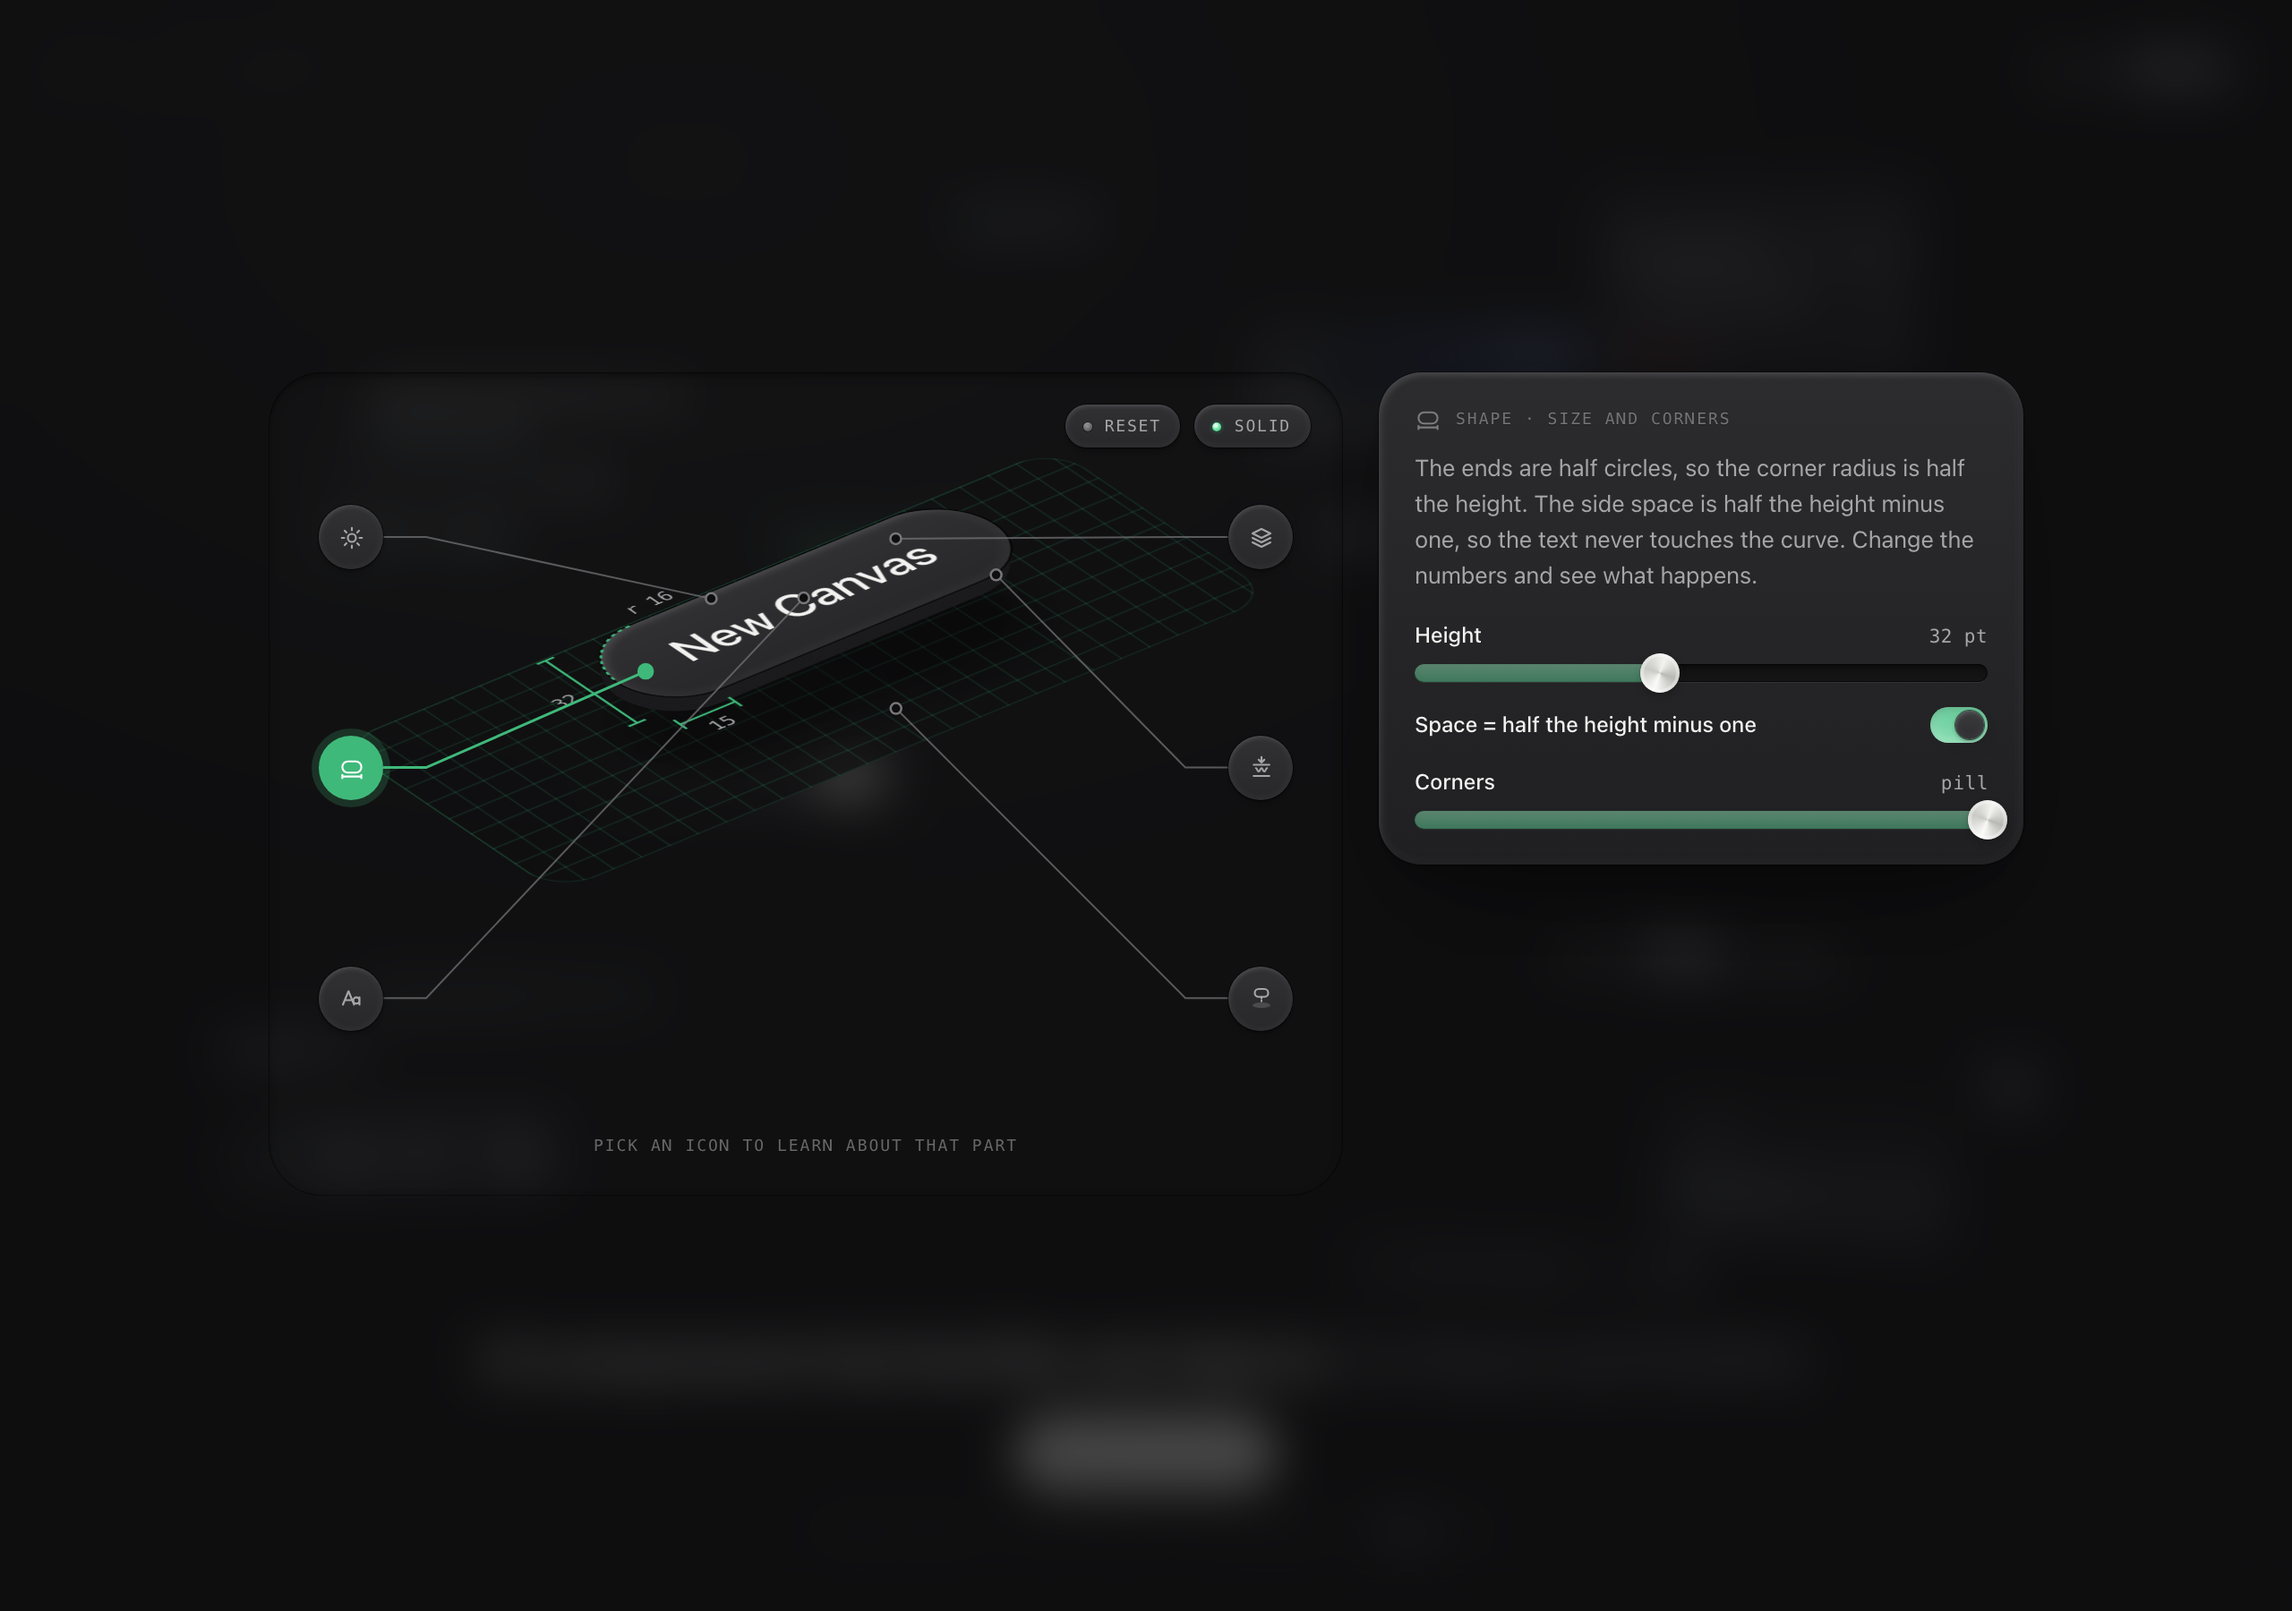
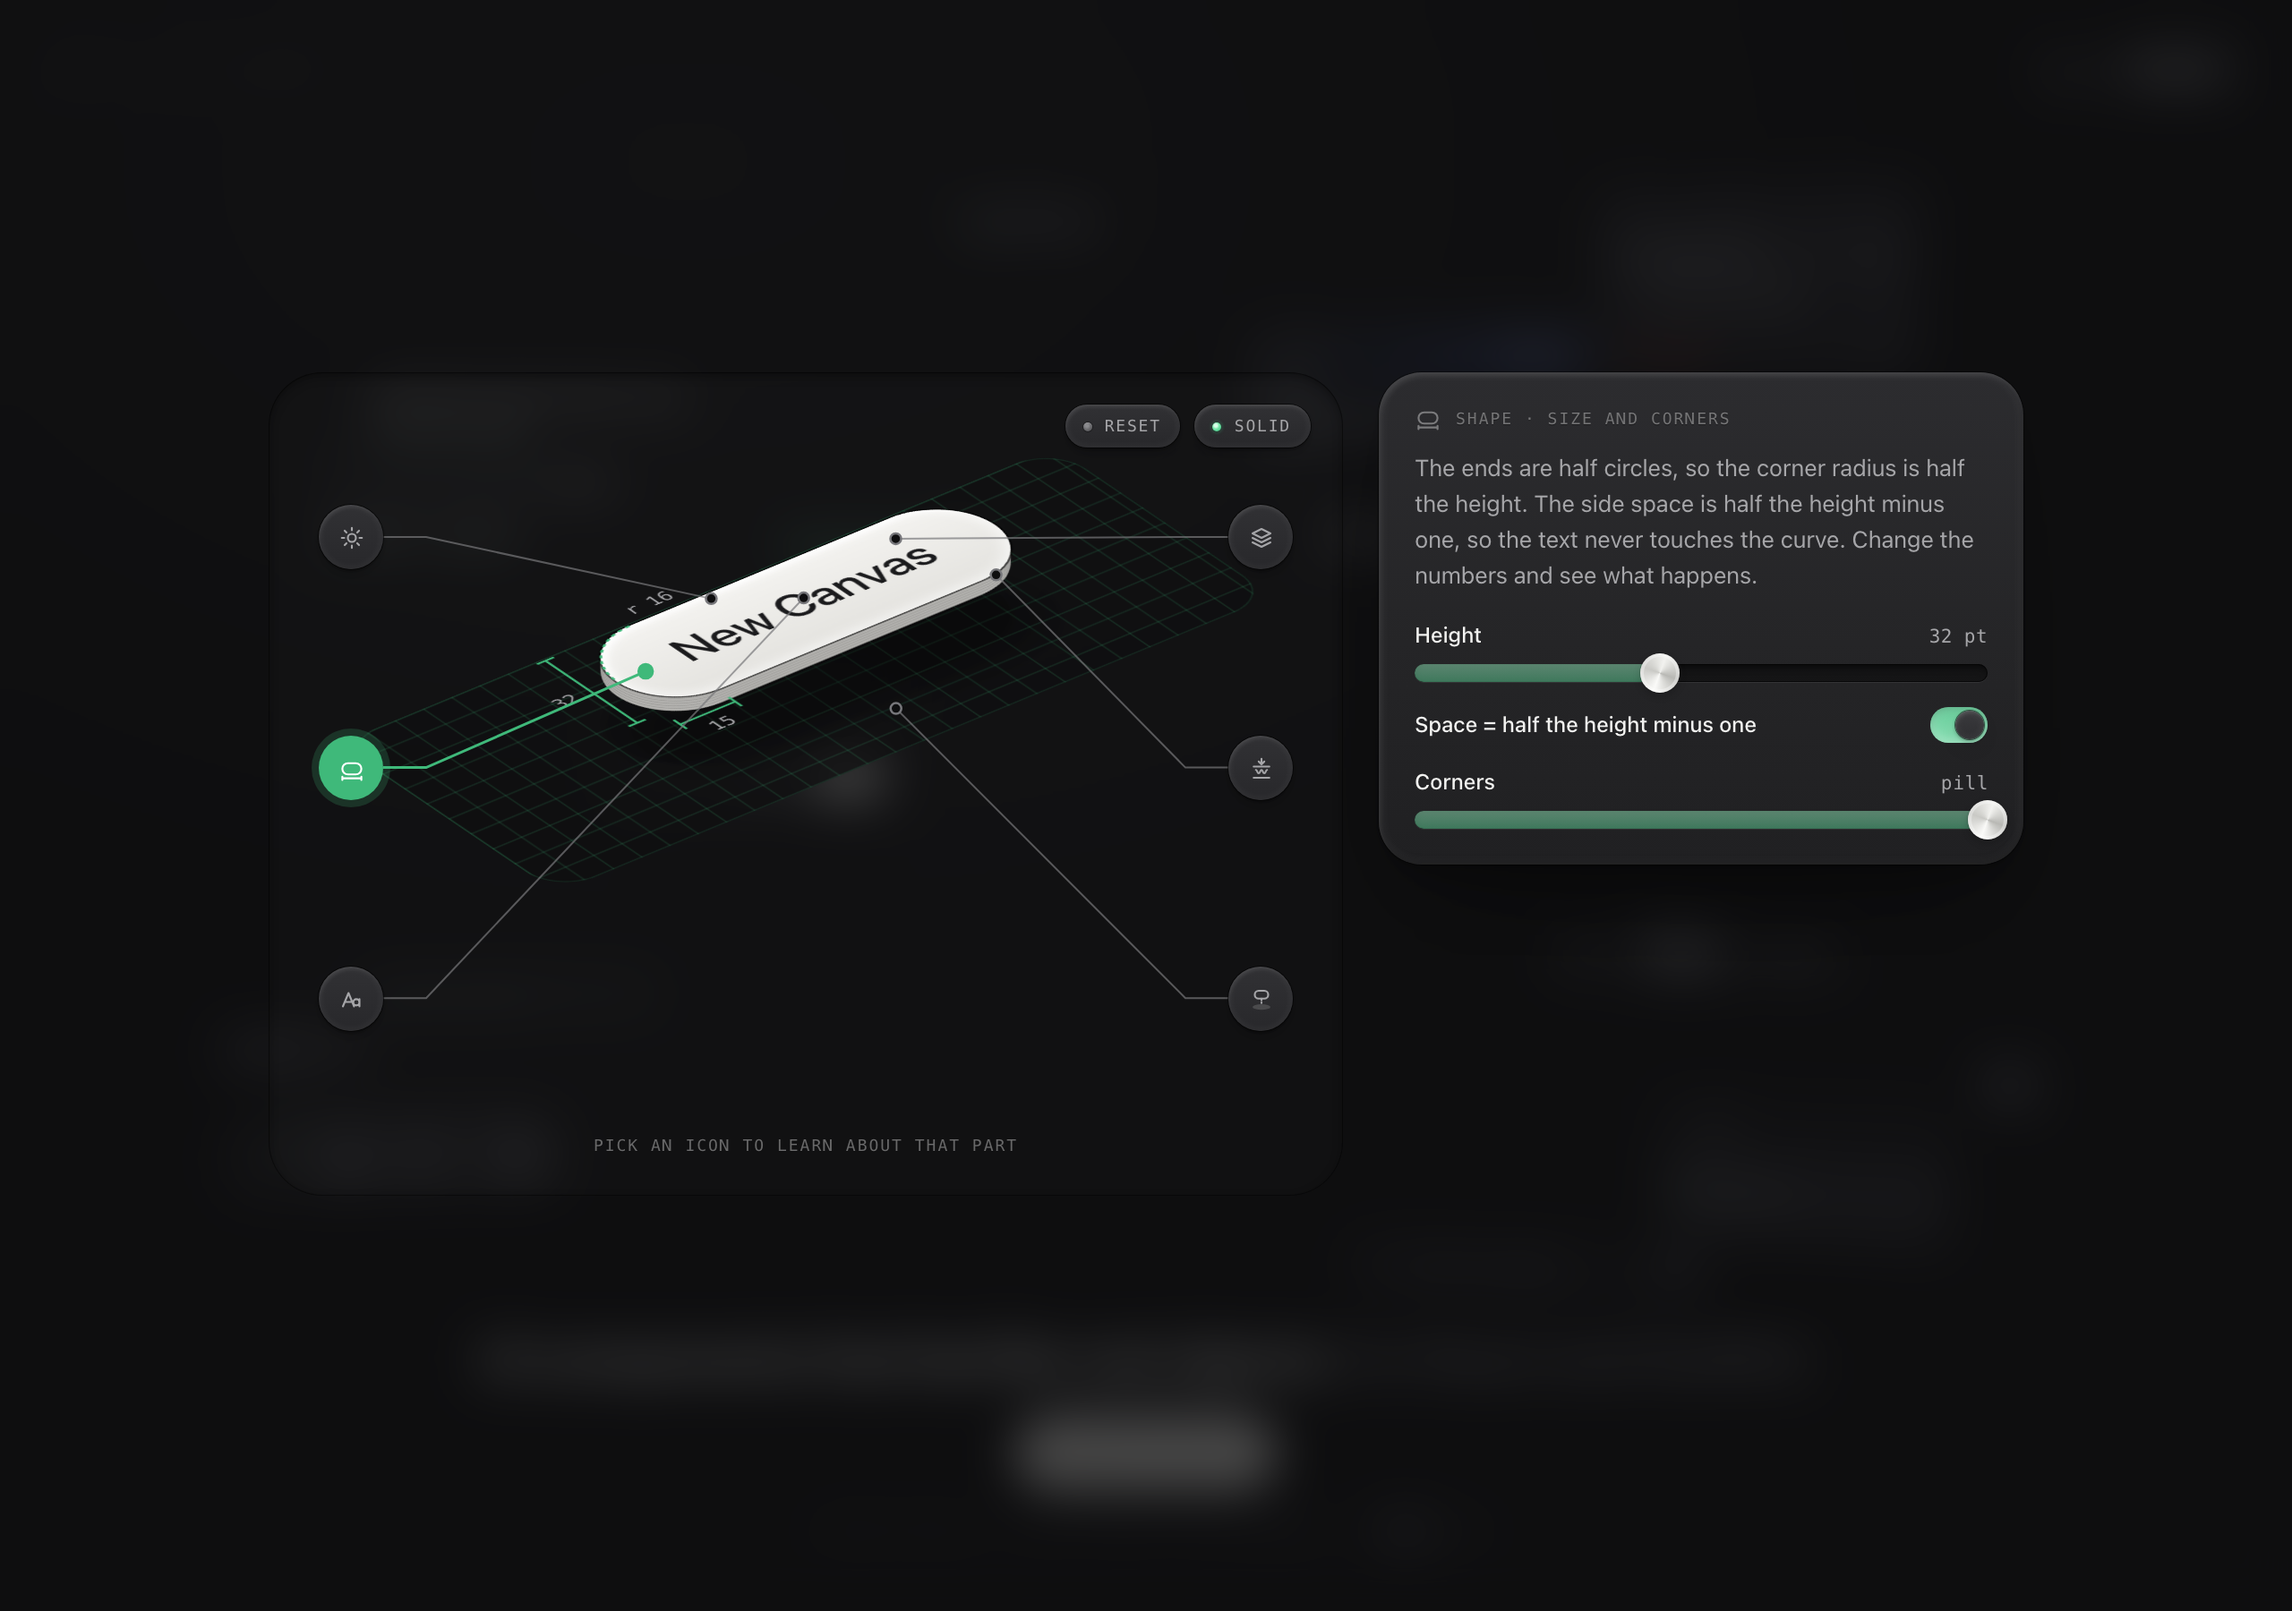
feat(docs): the x-ray composes around the flying object
The card and callouts stayed hidden until the object landed, then
appeared at once, so the x-ray looked broken. Flown in, it now composes
while the object is in the air: the bench and the card surface, the
object lands on a set stage and hands over to the model through the end
of its flight, then the callouts pop in one by one and their leader
lines draw out. The flight is back to 1.1s open and 0.9s close.

New Canvas opens its x-ray as the primary button it is, so it lands on a
model of itself. The button x-ray's primary and destructive caps take
their ink from the cap's token (it flips per colorway) and shade their
wall from the face, so Graphite's light primary no longer hides its
label.

Changed region(s): [[0.25, 0.3111, 0.4375, 0.4667]]

diff --git a/apps/docs/src/ui/floating.tsx b/apps/docs/src/ui/floating.tsx
@@ -141,12 +141,14 @@ export interface XrayOpen { kind: XrayKind; from: string }
  *           2 fly     it flies to the model's place in the card, growing to the model's
  *                     size and tilting as it goes, so it lands at the x-ray's angle with
  *                     its face on the model's face; the card fades in around it
- *           3 land    the object hands over to the model
+ *           3 land    the object hands over to the model through the end of its flight
+ * Meanwhile the card composes around it (kds.css, .xr-overlay.is-flown): the bench and the
+ * card surface while it flies, and the callouts and their leader lines follow once it lands.
  *   close   the same backwards: the model lifts out of the card, turns flat and flies home
  * The browser's own morph is one straight line with no tilt, so the travelling box and
  * the tilt are keyed here. */
-const OPEN_MS = 1500;
-const CLOSE_MS = 1300;
+const OPEN_MS = 1100;
+const CLOSE_MS = 900;
 /** The x-ray's angle (.xr-iso): a flat face turned and laid back. */
 const ISO = 'rotateX(58deg) rotateZ(-38deg)';
 const FLAT = 'rotateX(0deg) rotateZ(0deg)';
@@ -174,12 +176,16 @@ function choreograph(name: string, dir: 'open' | 'close') {
   if (dir === 'open') {
     play('group', [{ ...start, easing: LIFT_EASE }, { ...lifted, offset: 0.2, easing: FLY_EASE }, { ...end }], OPEN_MS);
     // the object: flat through the lift, then tilting into the x-ray's angle as it flies
-    play('old', [{ transform: FLAT, opacity: 1 }, { transform: FLAT, offset: 0.24, easing: FLY_EASE }, { transform: ISO, opacity: 1, offset: 0.9 }, { transform: ISO, opacity: 0 }], OPEN_MS);
-    play('new', [{ opacity: 0 }, { opacity: 0, offset: 0.86 }, { opacity: 1 }], OPEN_MS);
+    // the object: flat through the lift, tilting into the x-ray's angle as it flies, and handing
+    // over to the model through its last stretch rather than at the very end
+    play('old', [{ transform: FLAT }, { transform: FLAT, offset: 0.2, easing: FLY_EASE }, { transform: ISO, offset: 0.85 }, { transform: ISO }], OPEN_MS);
+    play('old', [{ opacity: 1 }, { opacity: 1, offset: 0.68 }, { opacity: 0, offset: 0.92 }, { opacity: 0 }], OPEN_MS);
+    play('new', [{ opacity: 0 }, { opacity: 0, offset: 0.6 }, { opacity: 1, offset: 0.9 }, { opacity: 1 }], OPEN_MS);
   } else {
     play('group', [{ ...start, easing: FLY_EASE }, { ...lifted, offset: 0.8, easing: LIFT_EASE }, { ...end }], CLOSE_MS);
-    play('old', [{ opacity: 1 }, { opacity: 0, offset: 0.1 }, { opacity: 0 }], CLOSE_MS);
-    play('new', [{ transform: ISO, opacity: 0 }, { transform: ISO, opacity: 1, offset: 0.08, easing: FLY_EASE }, { transform: FLAT, offset: 0.76 }, { transform: FLAT }], CLOSE_MS);
+    play('old', [{ opacity: 1 }, { opacity: 0, offset: 0.14 }, { opacity: 0 }], CLOSE_MS);
+    play('new', [{ transform: ISO }, { transform: ISO, offset: 0.06, easing: FLY_EASE }, { transform: FLAT, offset: 0.76 }, { transform: FLAT }], CLOSE_MS);
+    play('new', [{ opacity: 0 }, { opacity: 1, offset: 0.12 }, { opacity: 1 }], CLOSE_MS);
   }
 }
 

diff --git a/apps/docs/src/ui/xray/ButtonXray.tsx b/apps/docs/src/ui/xray/ButtonXray.tsx
@@ -92,7 +92,10 @@ export function ButtonXray({ label = 'New Canvas', cap = 'standard', icon = 'non
   const W = d.W * S, HH = m.h * S, R = d.radius * S;
   const hover = 18 + m.lift * 14 - (pressed ? 12 * travel : 0);
   const exploded = spot === 'layers';
-  const wallTone = cap === 'primary' ? '#1c1c1f' : cap === 'destructive' ? '#a6352c' : recipe.colorway === 'graphite' ? '#1c1c1f' : '#d9d7d1';
+  // coloured caps: the wall is the face's bottom colour in shade; the ink is the cap's own, which flips per colorway
+  const faceBottom = (recipe.stops.at(-1) ?? '').replace(/\s+[\d.]+%$/, '');
+  const wallTone = cap !== 'standard' ? `color-mix(in srgb, ${faceBottom} 78%, #000)` : recipe.colorway === 'graphite' ? '#1c1c1f' : '#d9d7d1';
+  const ink = cap === 'standard' ? undefined : `var(--mu-r-button-${cap}-ink)`;
 
   const faceShadow = [...d.insets, ...(d.rim ? [d.rim] : [])].map((v) => scalePx(v, S)).join(', ') || 'none';
   const labelStyle: React.CSSProperties = { fontSize: m.size * S, fontWeight: m.weight, letterSpacing: `${m.track}em`, transform: m.optical ? 'translateY(-2px)' : 'translateY(3px)' };
@@ -122,7 +125,7 @@ export function ButtonXray({ label = 'New Canvas', cap = 'standard', icon = 'non
                 borderRadius: d.radius, fontSize: m.size, fontWeight: m.weight, letterSpacing: `${m.track}em`,
                 background: pressed && pressedRecipe.fill !== 'transparent' ? pressedRecipe.fill : d.fill,
                 boxShadow: pressed && pressedRecipe.shadows.length ? pressedRecipe.shadows.join(', ') : d.cssShadow,
-                color: cap === 'standard' ? undefined : '#fff',
+                color: ink,
               }}
             >
               {icon !== 'none' && <Icon name={icon} size={m.h <= 24 ? 12 : m.h <= 32 ? 14 : m.h <= 40 ? 16 : 20} />}
@@ -150,7 +153,7 @@ export function ButtonXray({ label = 'New Canvas', cap = 'standard', icon = 'non
                     ))
                   : (
                     <div className="xr-face" style={{ width: W, height: HH, borderRadius: R, transform: `translateZ(${WALL * 1.6}px)`, background: d.fill, boxShadow: faceShadow }}>
-                      <span className="xr-label" style={{ ...labelStyle, color: cap === 'standard' ? undefined : '#fff' }}>{label}</span>
+                      <span className="xr-label" style={{ ...labelStyle, color: ink }}>{label}</span>
                       {spot === 'shape' && (
                         <svg className="xr-dims" viewBox={`-40 -40 ${W + 80} ${HH + 80}`} style={{ width: W + 80, height: HH + 80, left: -40, top: -40 }} aria-hidden>
                           <path d={`M-18 0V${HH}M-24 0H-12M-24 ${HH}H-12`} />

diff --git a/apps/docs/src/kds.css b/apps/docs/src/kds.css
@@ -665,11 +665,24 @@ html.rm .drift-item.in-space { animation: none; transform: translate3d(0, 0, var
 .xr-overlay[data-from] .xr-scene { view-transition-name: var(--flight); view-transition-class: float; }
 html[data-flight="open"]::view-transition-old(.float),
 html[data-flight="close"]::view-transition-new(.float) { width: 100%; height: 100%; object-fit: contain; }
-html[data-flight="open"]::view-transition-old(root), html[data-flight="open"]::view-transition-new(root) { animation-duration: .8s; animation-delay: .35s; }
-html[data-flight="close"]::view-transition-old(root), html[data-flight="close"]::view-transition-new(root) { animation-duration: .6s; }
+html[data-flight="open"]::view-transition-old(root), html[data-flight="open"]::view-transition-new(root) { animation-duration: .45s; }
+html[data-flight="close"]::view-transition-old(root), html[data-flight="close"]::view-transition-new(root) { animation-duration: .5s; }
 html[data-flight] .drift-item:not([data-flying]) { view-transition-name: none !important; }
 .xr-overlay.is-flown { animation: none; }
 .xr-overlay.is-flown .xr-iso { animation: none; }
+/* Flown in, the x-ray composes around the object instead of arriving all at once: the bench
+ * and the card surface while the object is in the air, it lands on a set stage, then the
+ * callouts pop in one by one and their leader lines draw out to the model. (The browser keeps
+ * the incoming page live during the flight, so these play through it.) */
+.xr-overlay.is-flown .xr-bench { animation: xr-surface .5s cubic-bezier(.2, .8, .25, 1) .1s both; }
+.xr-overlay.is-flown .xr-card { animation: xr-surface .5s cubic-bezier(.2, .8, .25, 1) .26s both; }
+.xr-overlay.is-flown .xr-callout .xr-callout-ico { animation: xr-callout-in var(--spring-part-d, .6s) var(--spring-part, ease-out) calc(.92s + var(--i, 0) * 60ms) both; }
+.xr-overlay.is-flown .xr-leaders path, .xr-overlay.is-flown .xr-leaders circle { animation: xr-draw .42s cubic-bezier(.3, 0, .2, 1) calc(.98s + var(--i, 0) * 60ms) both; }
+.xr-overlay.is-flown .xr-hint, .xr-overlay.is-flown .xr-actions { animation: xr-fade .4s ease-out 1.1s both; }
+@keyframes xr-surface { from { opacity: 0; transform: translateY(14px) scale(.985); } }
+@keyframes xr-callout-in { from { opacity: 0; transform: scale(.6); } }
+@keyframes xr-draw { from { stroke-dasharray: 0 800; } to { stroke-dasharray: 800 0; } }
+@keyframes xr-fade { from { opacity: 0; } }
 /* x-ray callouts: two columns beside the model, leader lines to anchors on the object */
 .xr-bench { place-items: center; }
 .xr-anchor { position: absolute; left: 0; top: 0; width: 2px; height: 2px; }

diff --git a/apps/docs/src/ui/xray/kit.tsx b/apps/docs/src/ui/xray/kit.tsx
@@ -172,12 +172,13 @@ export function Callouts<T extends GlyphName>({ bench, spots, side, spot, setSpo
   return (
     <>
       <svg className="xr-leaders" width={box.w} height={box.h} aria-hidden>
-        {spots.map((s) => {
+        {spots.map((s, i) => {
           const p = pts[s.id]; if (!p) return null;
+          const at = { ['--i' as string]: i } as React.CSSProperties;
           if (narrow) {
             const x = rowX(s.id), y = rowY - 18;
             return (
-              <g key={s.id} className={spot === s.id ? 'is-on' : ''}>
+              <g key={s.id} className={spot === s.id ? 'is-on' : ''} style={at}>
                 <path d={`M${x} ${y}V${y - 14}L${p[0]} ${p[1]}`} />
                 <circle cx={p[0]} cy={p[1]} r={spot === s.id ? 4 : 3} />
               </g>
@@ -187,16 +188,17 @@ export function Callouts<T extends GlyphName>({ bench, spots, side, spot, setSpo
           const cx = sd === 'left' ? colX('left') + 36 : colX('right') - 36, cy = box.h * fy;
           const knee = sd === 'left' ? cx + 24 : cx - 24;
           return (
-            <g key={s.id} className={spot === s.id ? 'is-on' : ''}>
+            <g key={s.id} className={spot === s.id ? 'is-on' : ''} style={at}>
               <path d={`M${cx} ${cy}H${knee}L${p[0]} ${p[1]}`} />
               <circle cx={p[0]} cy={p[1]} r={spot === s.id ? 4 : 3} />
             </g>
           );
         })}
       </svg>
-      {spots.map((s) => {
+      {spots.map((s, i) => {
         const [sd, fy] = side[s.id];
-        const style = narrow ? { left: rowX(s.id) - 18, top: rowY } : sd === 'left' ? { left: colX('left'), top: box.h * fy } : { right: 28, top: box.h * fy };
+        // --i staggers the callouts when the x-ray composes around a flown-in object
+        const style = { ['--i' as string]: i, ...(narrow ? { left: rowX(s.id) - 18, top: rowY } : sd === 'left' ? { left: colX('left'), top: box.h * fy } : { right: 28, top: box.h * fy }) };
         return (
           <button key={s.id} type="button" className={['xr-callout', sd, spot === s.id ? 'is-on' : ''].join(' ')} style={style} onClick={() => setSpot(s.id)} aria-pressed={spot === s.id} aria-label={`${s.title}: ${s.word}`} title={s.title}>
             <span className="xr-callout-ico"><Glyph id={s.id} /></span>

diff --git a/apps/docs/src/ui/xray/index.tsx b/apps/docs/src/ui/xray/index.tsx
@@ -20,7 +20,8 @@ import { TooltipXray } from './TooltipXray';
 
 /* Every x-ray, by the name the floating table and the overlays use. */
 export const XRAYS = {
-  button: { title: 'Button', View: ButtonXray },
+  // the table's New Canvas is a primary button, so its x-ray is too: it lands on a model of itself
+  button: { title: 'Button', View: (p: { startOpen?: boolean }) => <ButtonXray {...p} cap="primary" /> },
   switcher: { title: 'Switcher', View: SwitcherXray },
   kbd: { title: 'Keycap', View: KbdXray },
   swatch: { title: 'Swatch', View: SwatchXray },
